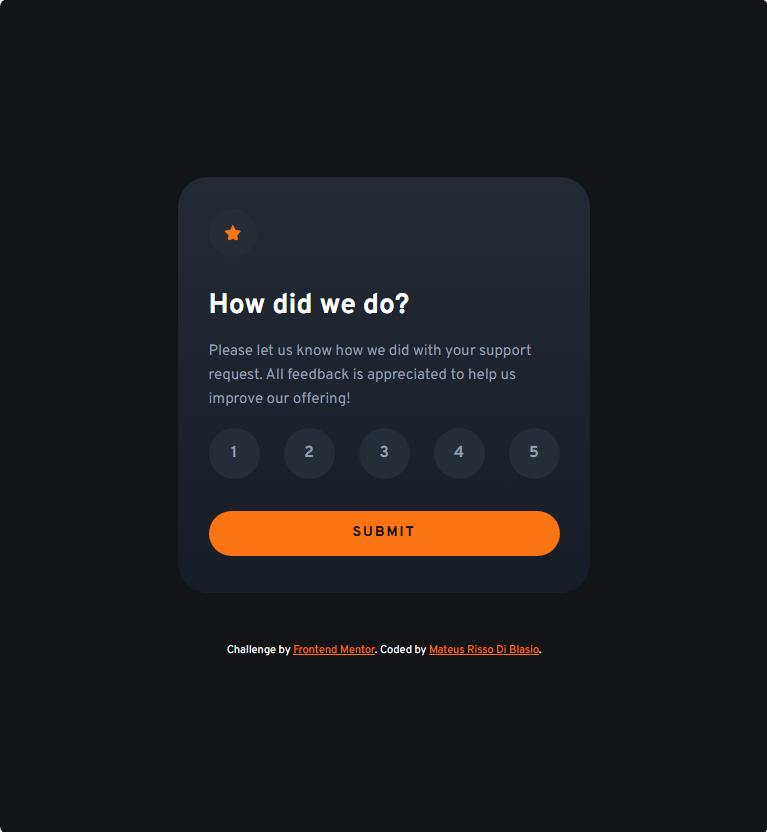
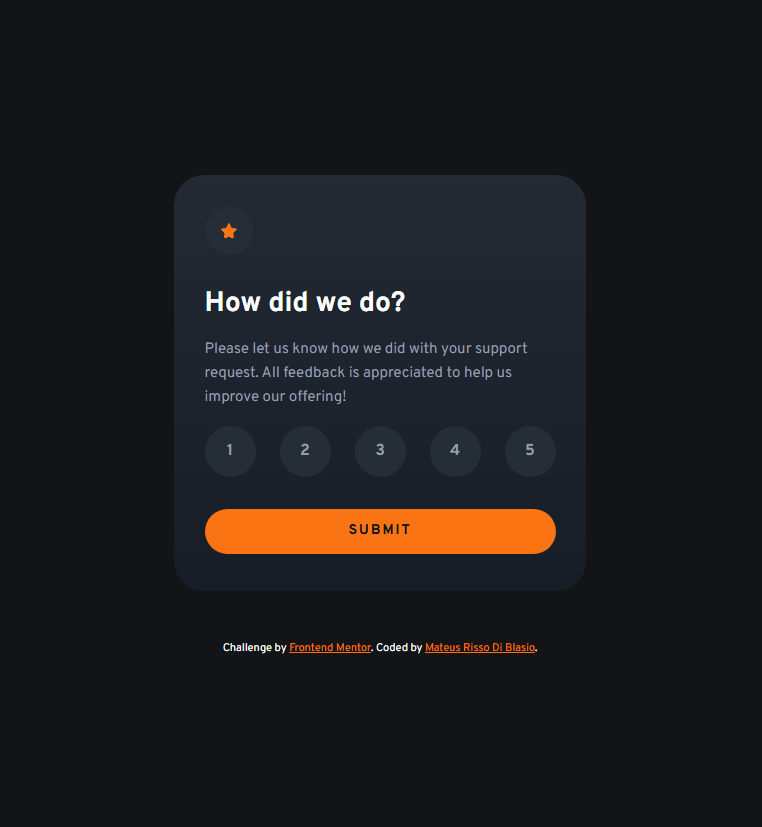
corrections

diff --git a/index.html b/index.html
@@ -22,7 +22,7 @@
 
         <p>Please let us know how we did with your support request. All feedback is appreciated to help us improve our offering!</p>
 
-        <div id="ratingStarBtns" role="radiogroup" aria-label="Star rating">
+        <div id="ratingStarBtns" aria-label="Star rating container">
           
           <button id="oneStar" class="stars" aria-label="one star button">1</button>
           <button id="twoStars" class="stars" aria-label="two stars button">2</button>
